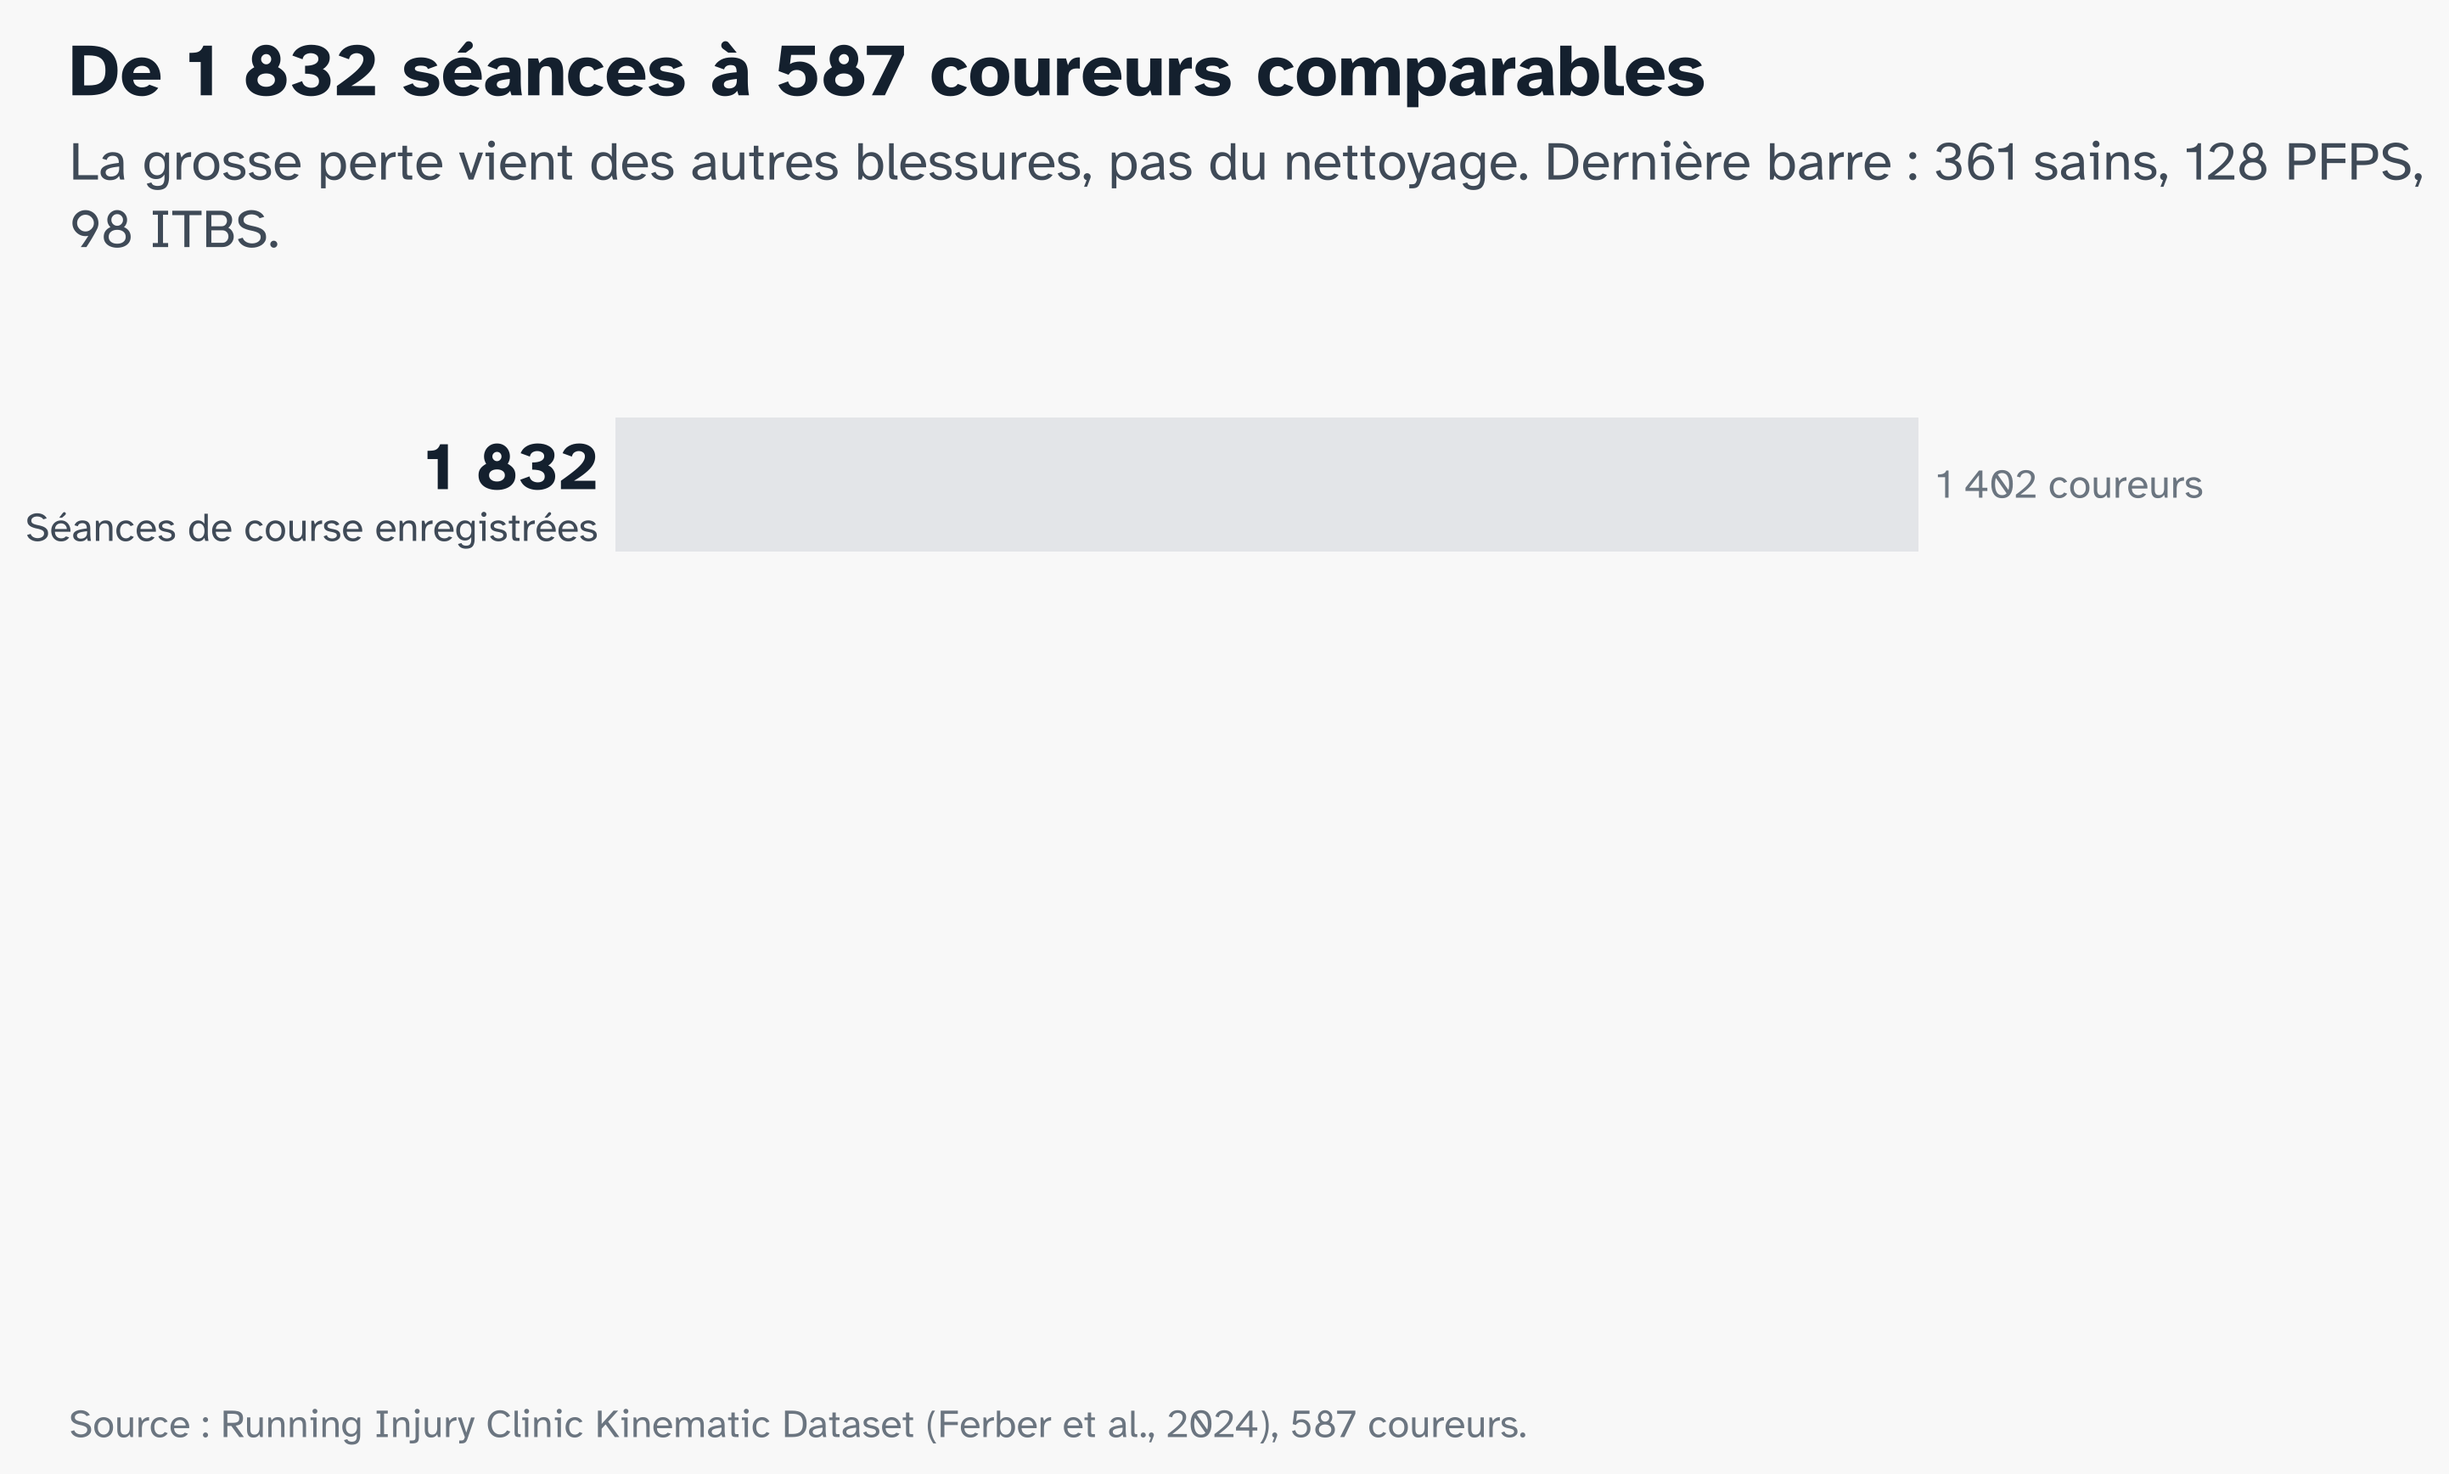
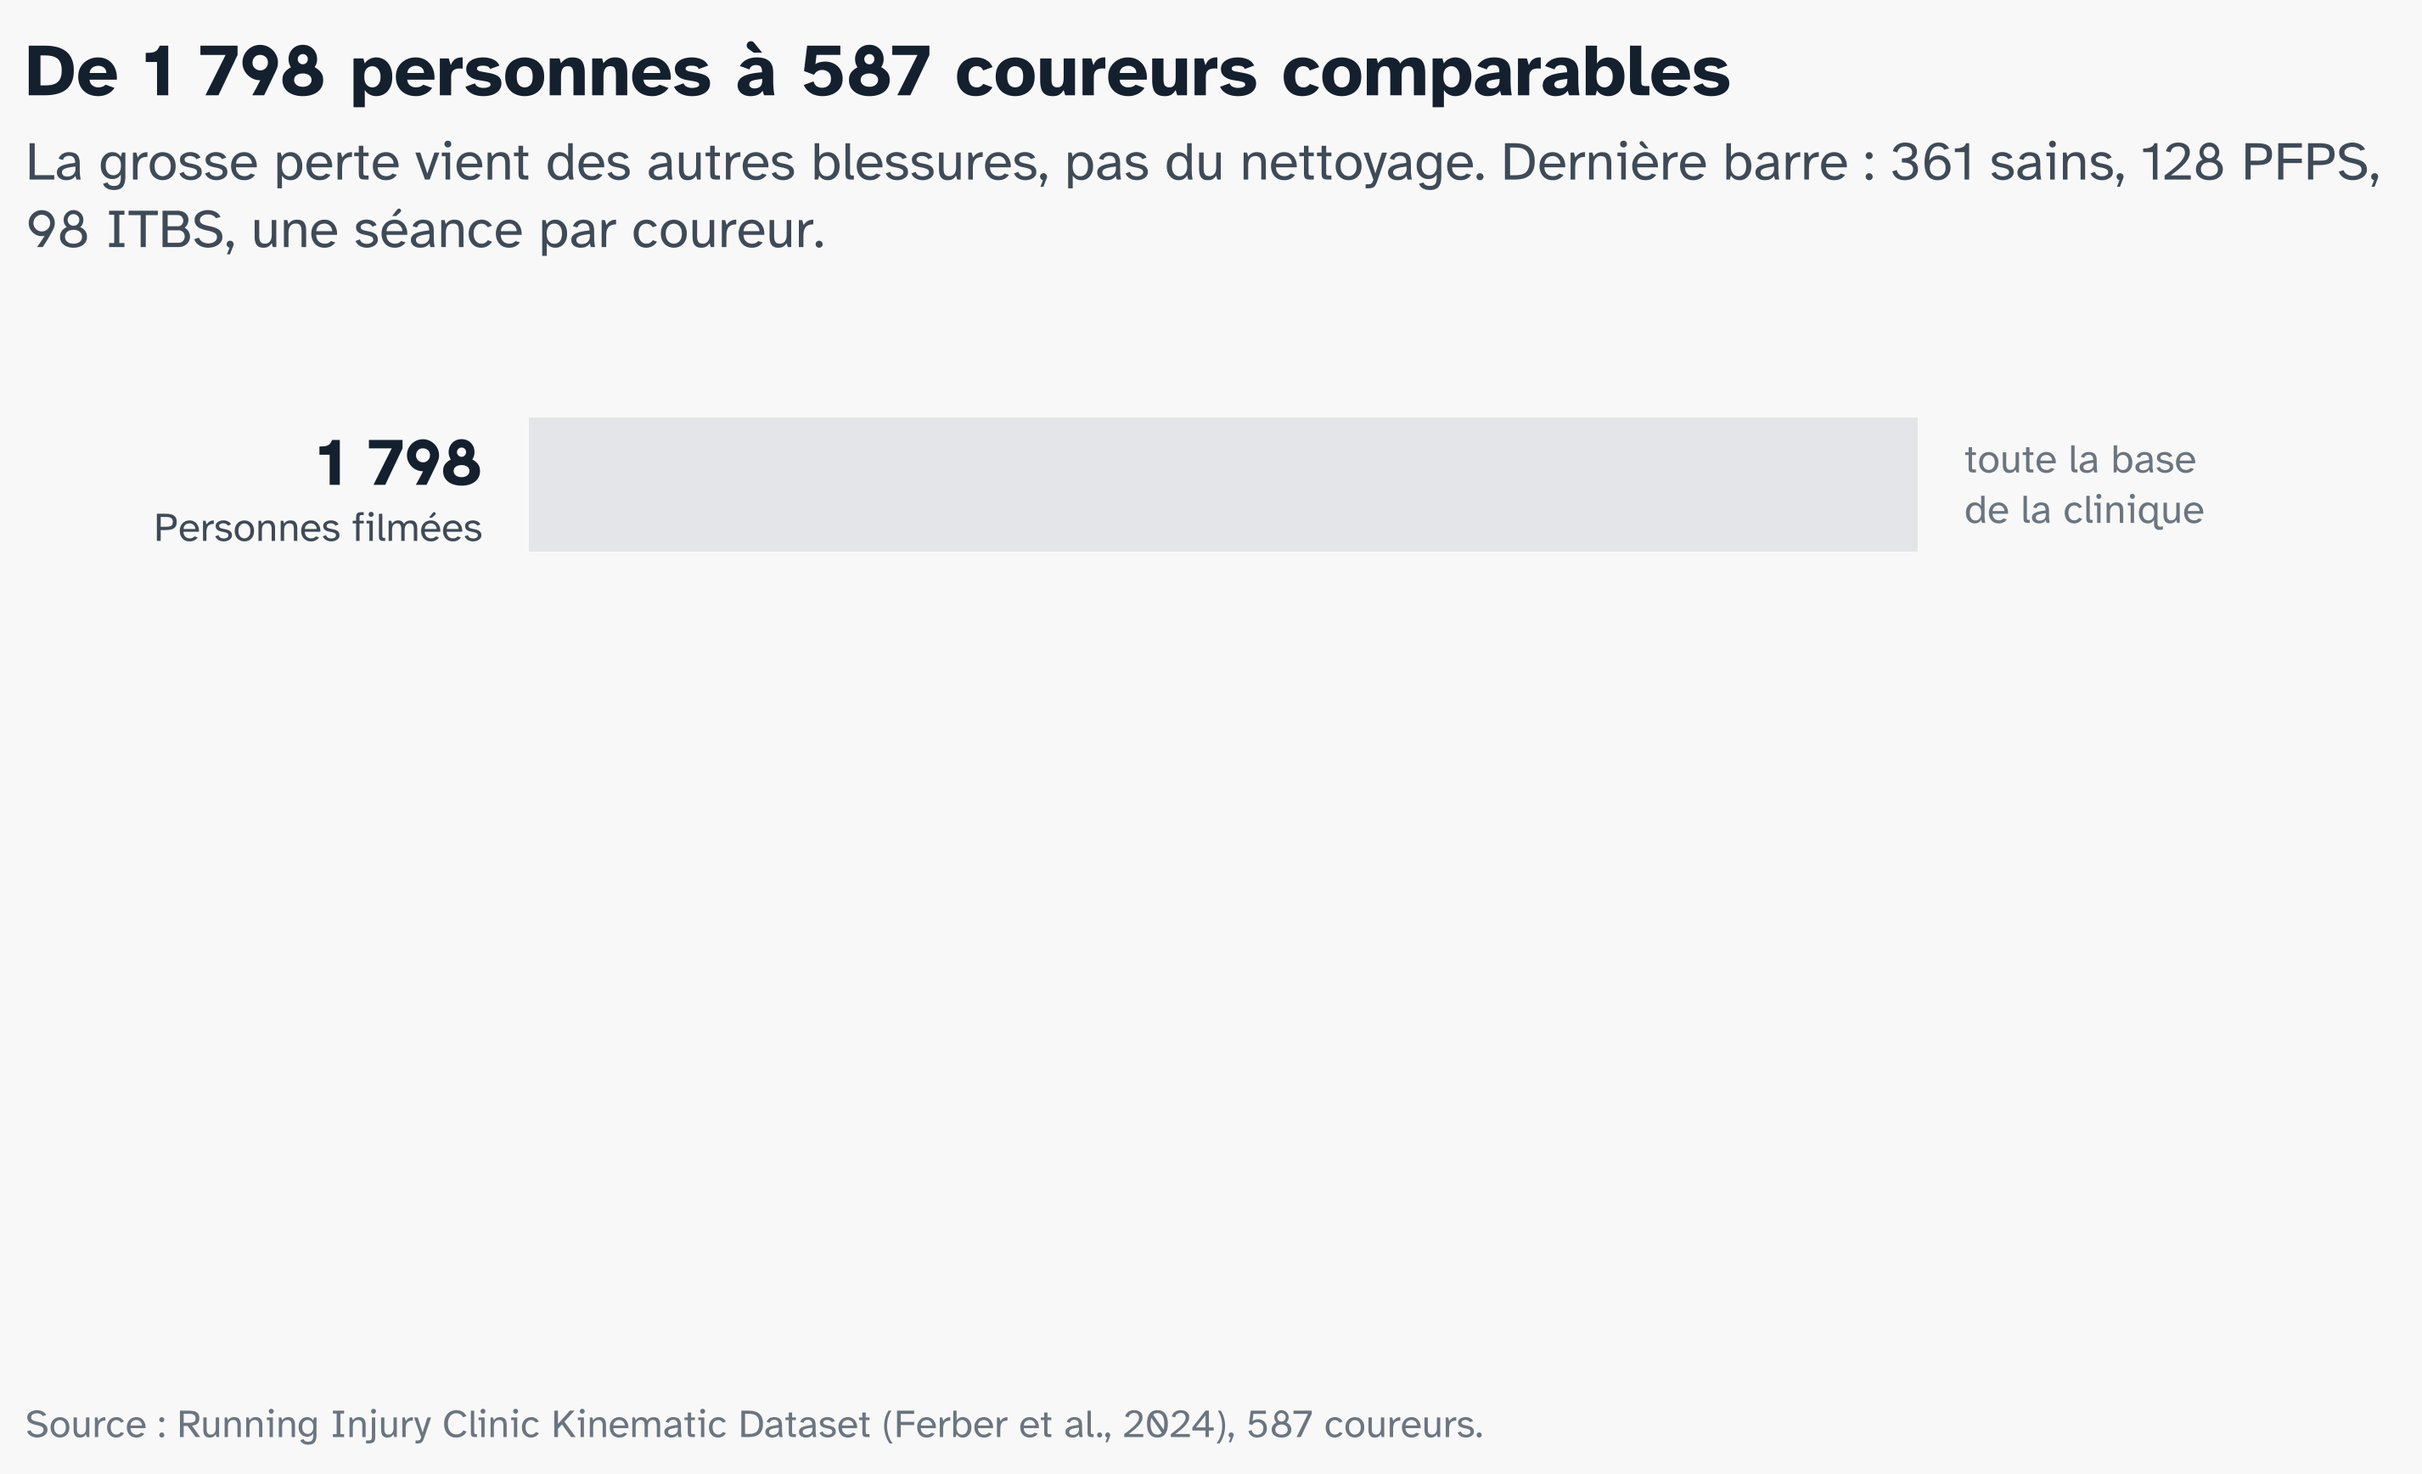
modifications des schemas et ajout de precisions

diff --git a/presentation/theme.scss b/presentation/theme.scss
@@ -92,7 +92,8 @@ $code-color: $encre-titre;
   border-radius: 12px; padding: 0.55em 0.8em; margin-bottom: 0.6em; background: #fff;
   border-left: 10px solid $encre-douce;
   .nom { font-weight: 700; font-size: 1.1em; display: block; }
-  .detail { font-size: 0.75em; }
+  .rang { font-size: 0.75em; font-weight: 700; color: $encre-titre; display: block; margin: 0.1em 0 0.25em; }
+  .detail { font-size: 0.68em; display: block; line-height: 1.35; margin-top: 0.15em; }
   &.p { border-left-color: $jaune; .nom { color: $jaune; } }
   &.i { border-left-color: $rouge; .nom { color: $rouge; } }
 }

diff --git a/presentation/figures_presentation.py b/presentation/figures_presentation.py
@@ -57,49 +57,56 @@ def blessures_debutants():
 
 
 def entonnoir_selection():
-    """De 1 832 séances à 587 coureurs (scripts/01_nettoyer_meta.py).
+    """De 1 798 personnes à 587 coureurs (scripts/01_nettoyer_meta.py).
 
-    Écrit la figure complète et une version par étape (p02_entonnoir_1 à 4),
+    Compté en personnes, pour rester cohérent avec la slide de la clinique (1 798).
+    En séances : 1 832 séances de course -> 836 (sains, PFPS, ITBS) -> 832 -> 587.
+    Écrit la figure complète et une version par étape (p02_entonnoir_1 à 3),
     pour la faire apparaître pas à pas dans la présentation.
     """
     etapes = [
-        ("Séances de course enregistrées", 1832, "1 402 coureurs"),
-        ("Sains, PFPS ou ITBS", 836, "996 séances (813 coureurs) avec une autre blessure"),
-        ("Diagnostic cohérent", 832, "2 coureurs sains une fois, blessés une autre"),
-        ("Une séance par coureur", 587, "la première ; 110 coureurs venus plusieurs fois"),
+        ("Personnes filmées", 1798, "toute la base\nde la clinique"),
+        ("Ont couru", 1402, "− 396 filmées\nen marchant seulement"),
+        ("Sains, PFPS ou ITBS", 589, "− 813 coureurs\navec une autre blessure"),
+        ("Diagnostic cohérent", 587, "− 2 diagnostics\ncontradictoires"),
     ]
     groupes = {"sain": 361, "PFPS": 128, "ITBS": 98}
-    largeur_max = etapes[0][1]
+    demi = etapes[0][1] / 2   # barres centrées sur 0 : entonnoir symétrique
+    col_gauche = -demi - 60   # colonne fixe des effectifs (alignés à droite)
+    col_droite = demi + 60    # colonne fixe des explications (alignées à gauche)
     hauteur = 0.62
 
     for nb_visibles in range(1, len(etapes) + 1):
         fig, ax = plt.subplots(figsize=TAILLE_SLIDE)
-        fig.subplots_adjust(top=0.74, bottom=0.08, left=0.03, right=0.97)
-        for i, (nom, n, detail) in enumerate(etapes[:nb_visibles]):
+        fig.subplots_adjust(top=0.74, bottom=0.08, left=0.02, right=0.98)
+        # Toutes les étapes sont dessinées à chaque fois (les suivantes en transparent) :
+        # le cadrage de l'image ne bouge pas d'une étape à l'autre pendant l'animation.
+        for i, (nom, n, detail) in enumerate(etapes):
+            a = 1.0 if i < nb_visibles else 0.0
             y = len(etapes) - 1 - i
-            x0 = (largeur_max - n) / 2
+            x0 = -n / 2
             if i < len(etapes) - 1:
-                ax.barh(y, n, left=x0, height=hauteur, color=GRILLE, edgecolor="none")
+                ax.barh(y, n, left=x0, height=hauteur, color=GRILLE, edgecolor="none", alpha=a)
             else:  # dernière étape : découpée par groupe
                 gauche = x0
                 for g, eff in groupes.items():
                     ax.barh(y, eff, left=gauche, height=hauteur, color=COULEURS_GROUPES[g],
-                            edgecolor=FOND, linewidth=1.5)
+                            edgecolor=FOND, linewidth=1.5, alpha=a)
                     ax.text(gauche + eff / 2, y, f"{eff}", ha="center", va="center",
-                            fontsize=12, fontweight="bold", color="white")
+                            fontsize=12, fontweight="bold", color="white", alpha=a)
                     gauche += eff
-            ax.text(x0 - 25, y + 0.08, f"{n:,}".replace(",", " "), ha="right", va="center",
-                    fontsize=19, fontweight="bold", color=ENCRE_TITRE)
-            ax.text(x0 - 25, y - 0.2, nom, ha="right", va="center", fontsize=11.5,
-                    color=ENCRE_TEXTE)
-            ax.text(x0 + n + 25, y, detail, ha="left", va="center", fontsize=11.5,
-                    color=ENCRE_DOUCE)
-        ax.set_xlim(-700, largeur_max + 700)
+            ax.text(col_gauche, y + 0.1, f"{n:,}".replace(",", " "), ha="right", va="center",
+                    fontsize=19, fontweight="bold", color=ENCRE_TITRE, alpha=a)
+            ax.text(col_gauche, y - 0.2, nom, ha="right", va="center", fontsize=11.5,
+                    color=ENCRE_TEXTE, alpha=a)
+            ax.text(col_droite, y, detail, ha="left", va="center", fontsize=11.5,
+                    color=ENCRE_DOUCE, alpha=a)
+        ax.set_xlim(-demi - 620, demi + 620)
         ax.set_ylim(-0.6, len(etapes) - 0.4)
         ax.axis("off")
-        titrer(fig, "De 1 832 séances à 587 coureurs comparables",
-               "La grosse perte vient des autres blessures, pas du nettoyage. "
-               "Dernière barre : 361 sains, 128 PFPS, 98 ITBS.")
+        titrer(fig, "De 1 798 personnes à 587 coureurs comparables",
+               "La grosse perte vient des autres blessures, pas du nettoyage. Dernière barre : "
+               "361 sains, 128 PFPS, 98 ITBS, une séance par coureur.")
         nom_fichier = ("p02_entonnoir_selection" if nb_visibles == len(etapes)
                        else f"p02_entonnoir_{nb_visibles}")
         sauver(fig, nom_fichier)
